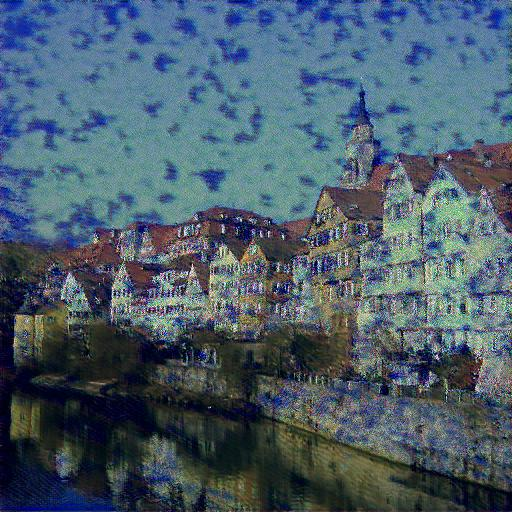
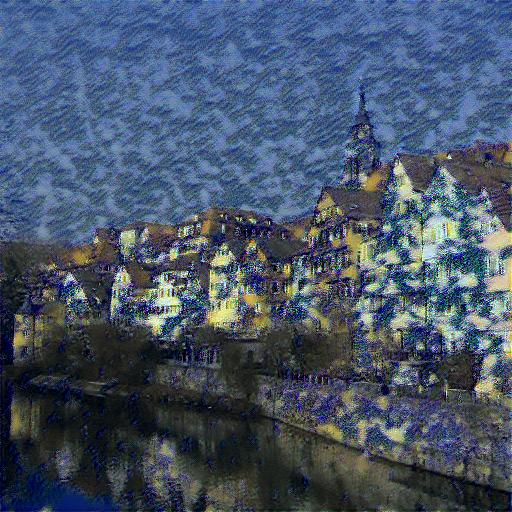
test

diff --git a/stylenet/stylenet.py b/stylenet/stylenet.py
@@ -20,7 +20,7 @@ from shutil import rmtree
 IMAGE_DIM = (512, 512)
 INPUT_SHAPE = (None, IMAGE_DIM[0], IMAGE_DIM[1], 3)
 CONTENT_WEIGHT = 1
-STYLE_WEIGHT = 1e+4
+STYLE_WEIGHT = 1e+5
 TOTAL_VARIATION_WEIGHT = 0
 
 CONTENT_LAYER = 'block2_conv2'
